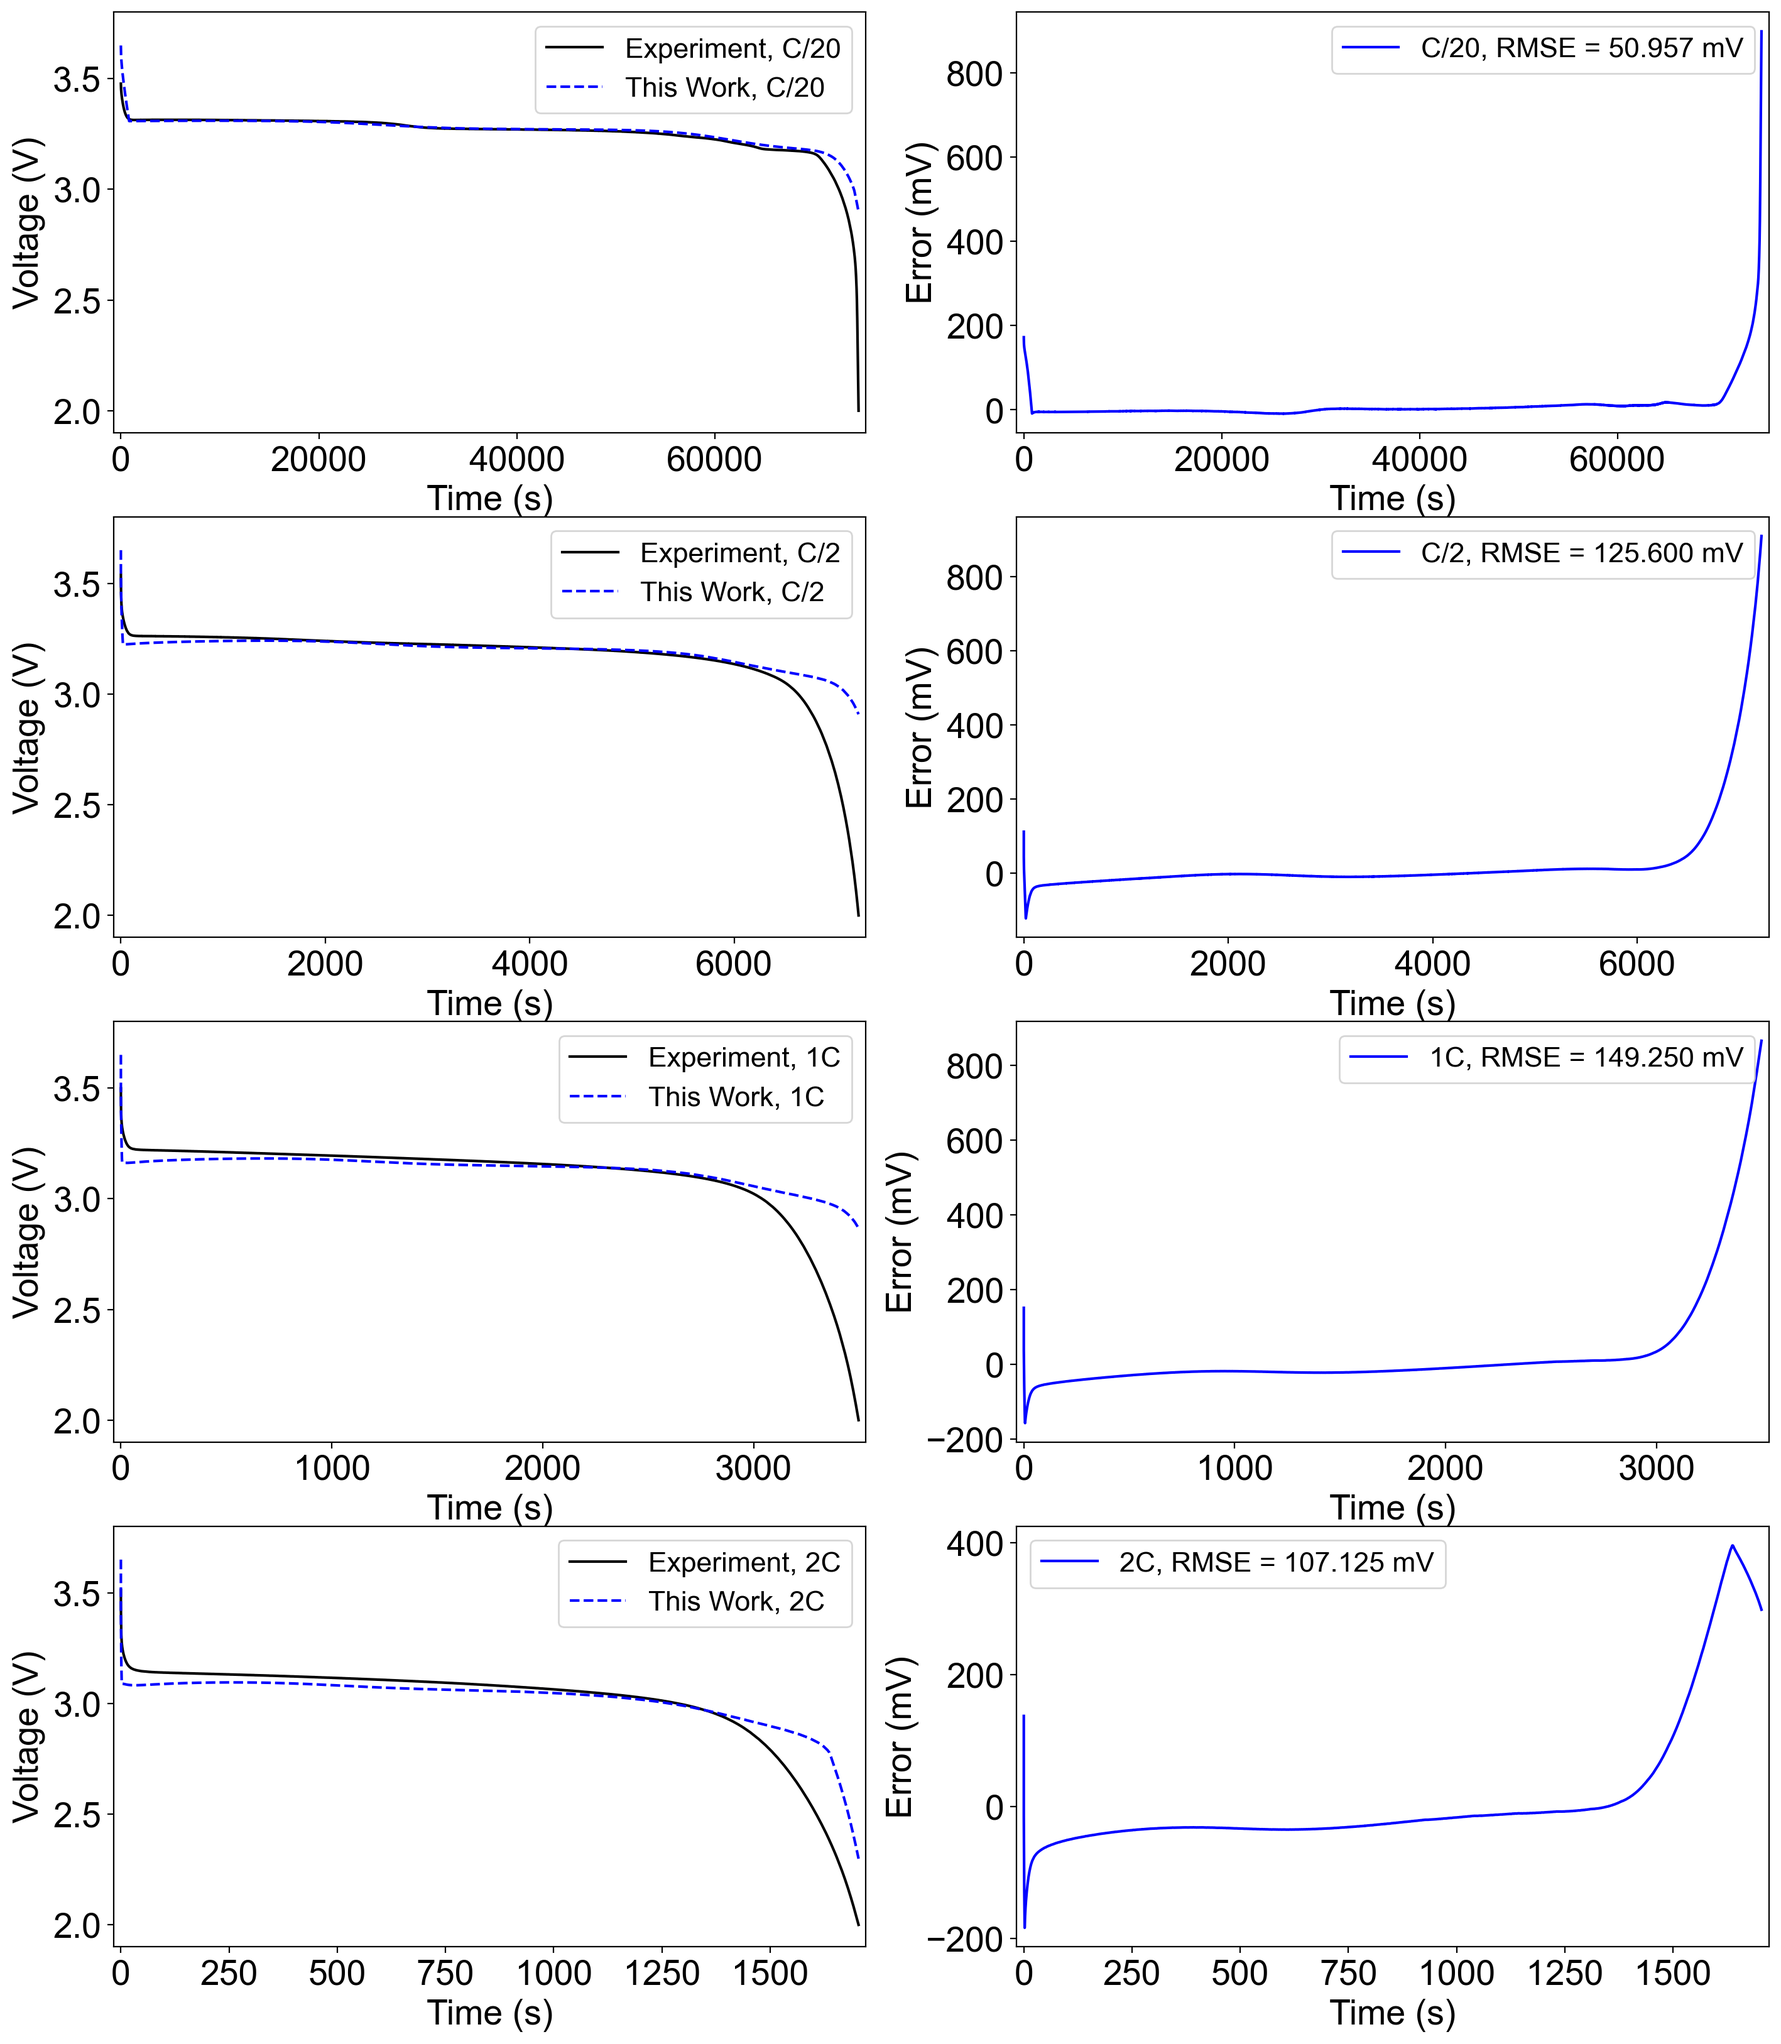
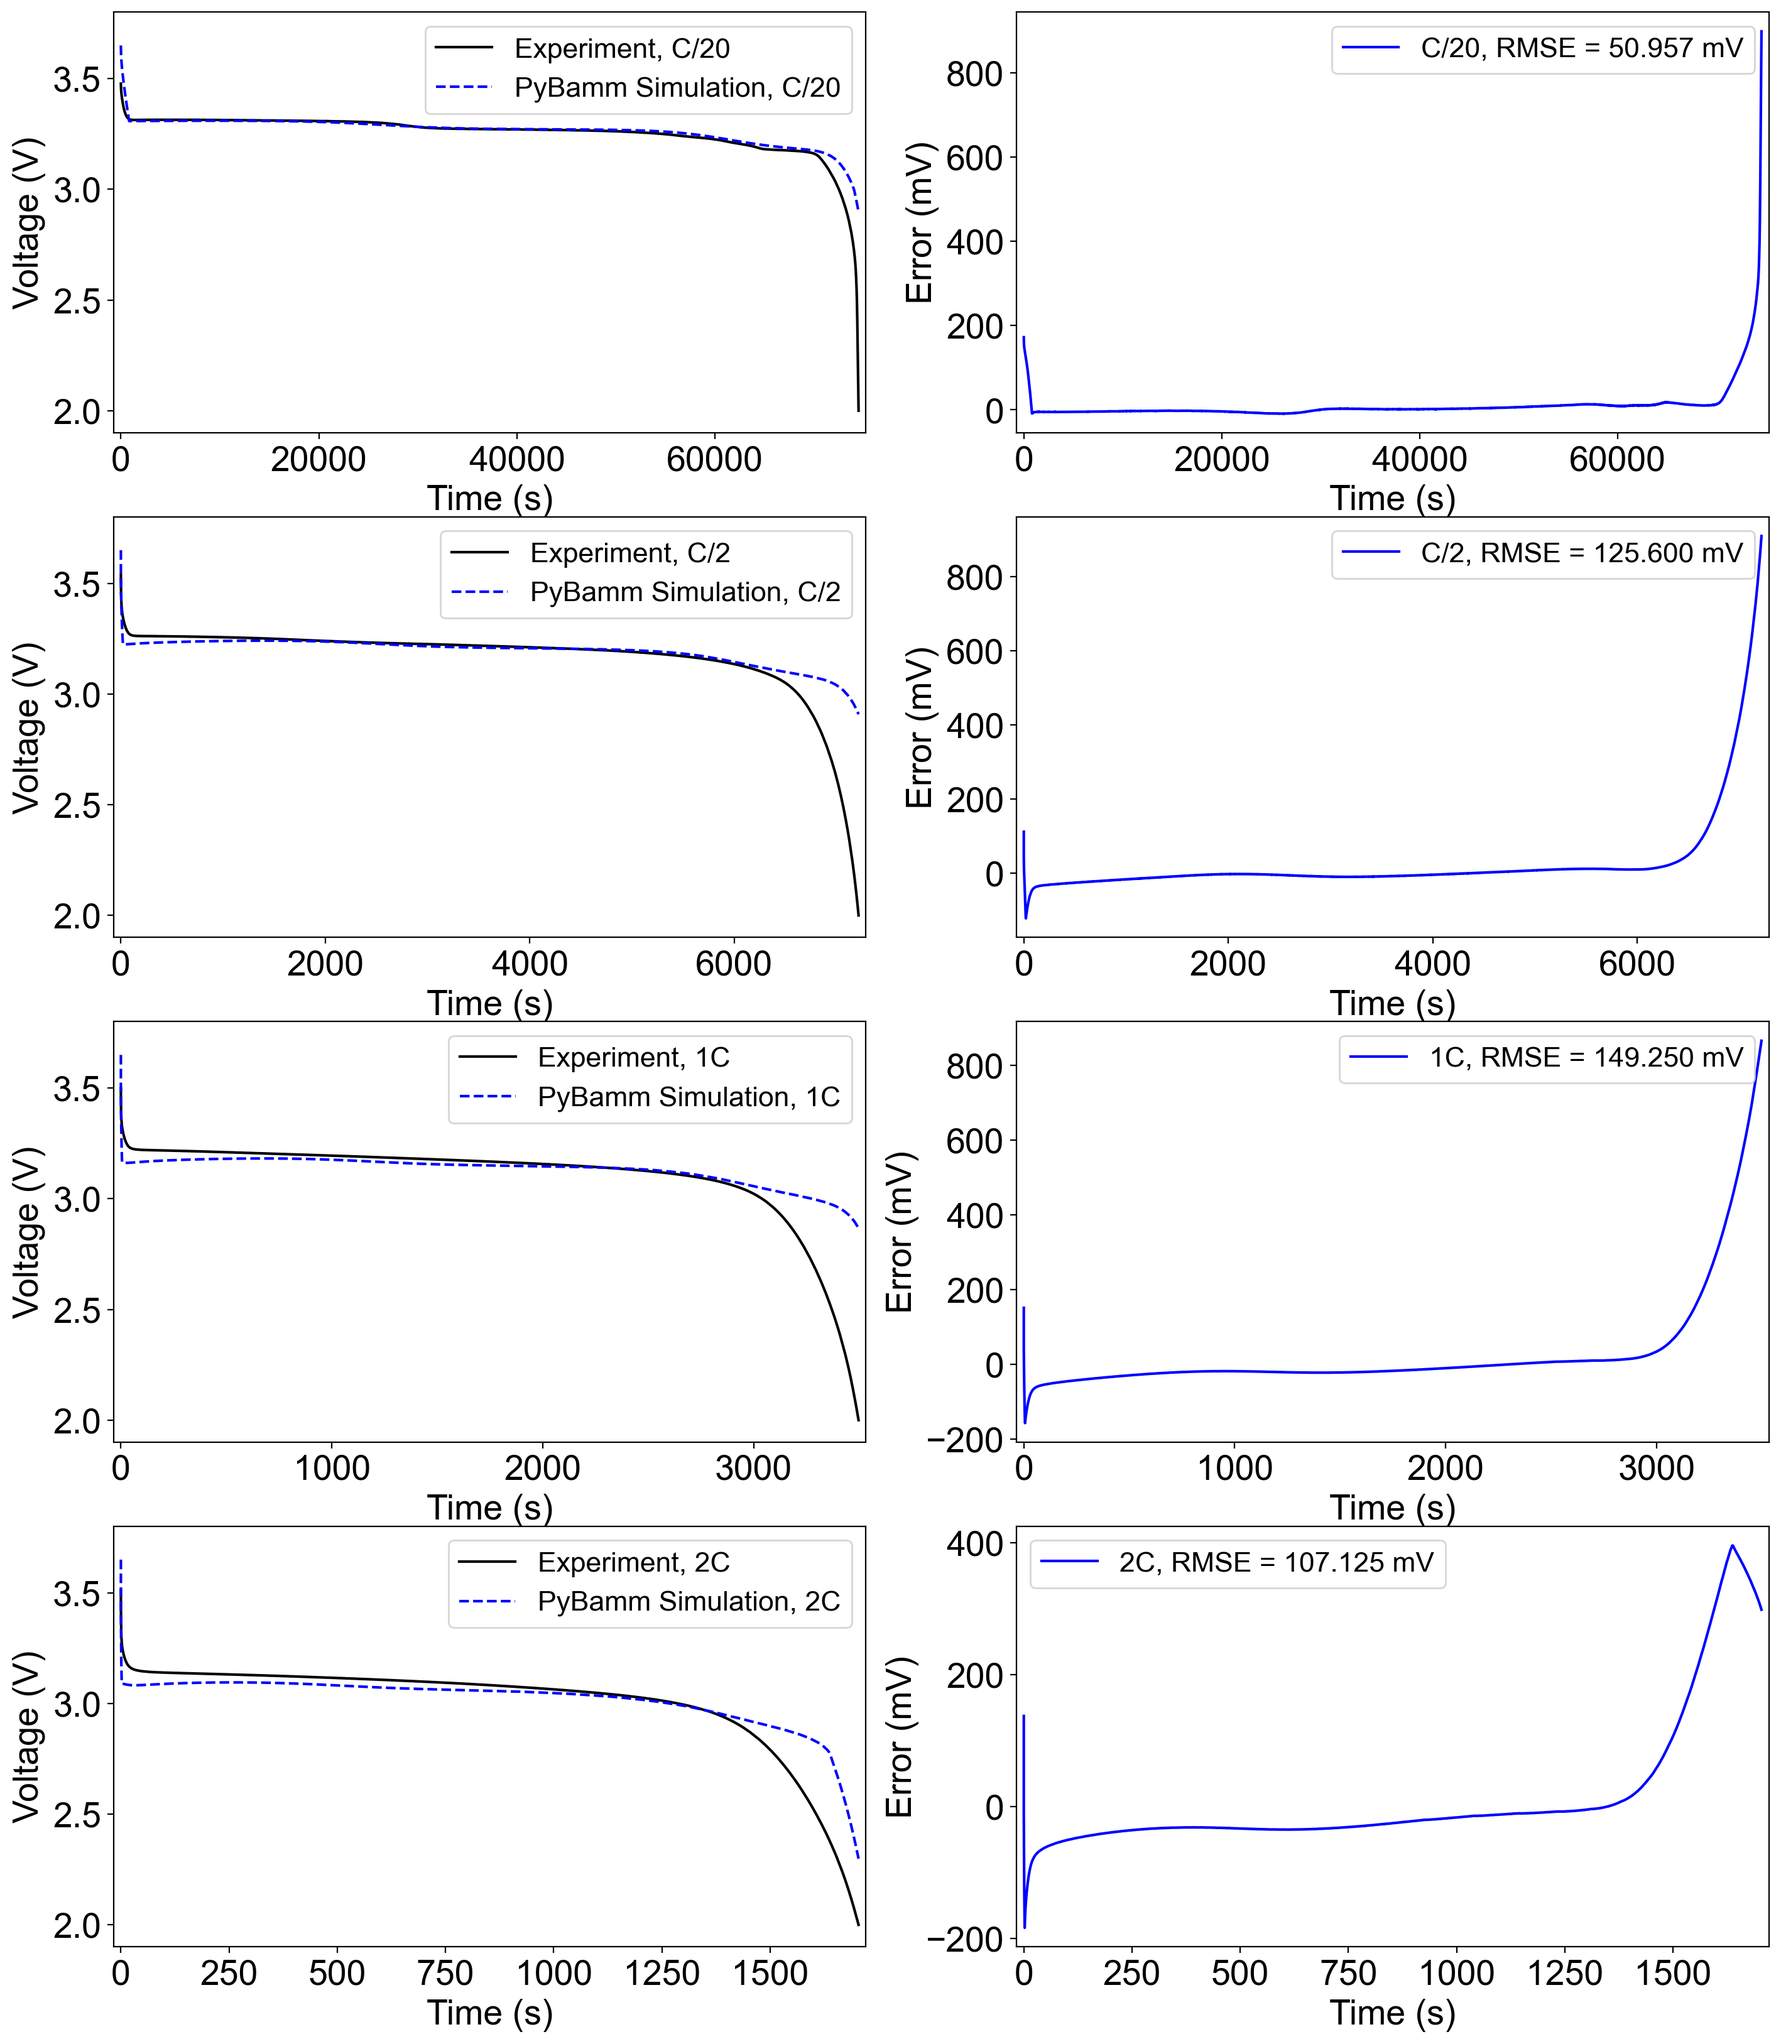
Revised figure caption

diff --git a/pybamm_run/draw_all.py b/pybamm_run/draw_all.py
@@ -44,7 +44,7 @@ for i in range(0, len(c_rates)):
     indices = ax_i_j[i]
     ax_now = ax[indices[0]][indices[1]]
     ax_now.plot(voltage_data[:, 0], voltage_data[:, 1], "k-", label=f"Experiment, {c_rates_label[i]}")
-    ax_now.plot(t, V, "b--", label=f"This Work, {c_rates_label[i]}")
+    ax_now.plot(t, V, "b--", label=f"PyBamm Simulation, {c_rates_label[i]}")
     # ax_now.plot(t_a, V_a, "r--", label=f"AboutEnergy, {c_rates_label[i]}")
     ax_now.set_xlabel("Time (s)", fontsize=20)
     ax_now.set_ylabel("Voltage (V)", fontsize=20)
@@ -92,7 +92,7 @@ for i in range(0, len(c_rates)):
     # simulation plot
     ax_now = ax[i][0]
     ax_now.plot(voltage_data[:, 0], voltage_data[:, 1], "k-", label=f"Experiment, {c_rates_label[i]}")
-    ax_now.plot(t, V, "b--", label=f"This Work, {c_rates_label[i]}")
+    ax_now.plot(t, V, "b--", label=f"PyBamm Simulation, {c_rates_label[i]}")
     # ax_now.plot(t_a, V_a, "r--", label=f"AboutEnergy, {c_rates_label[i]}")
     ax_now.set_xlabel("Time (s)", fontsize=20)
     ax_now.set_ylabel("Voltage (V)", fontsize=20)
